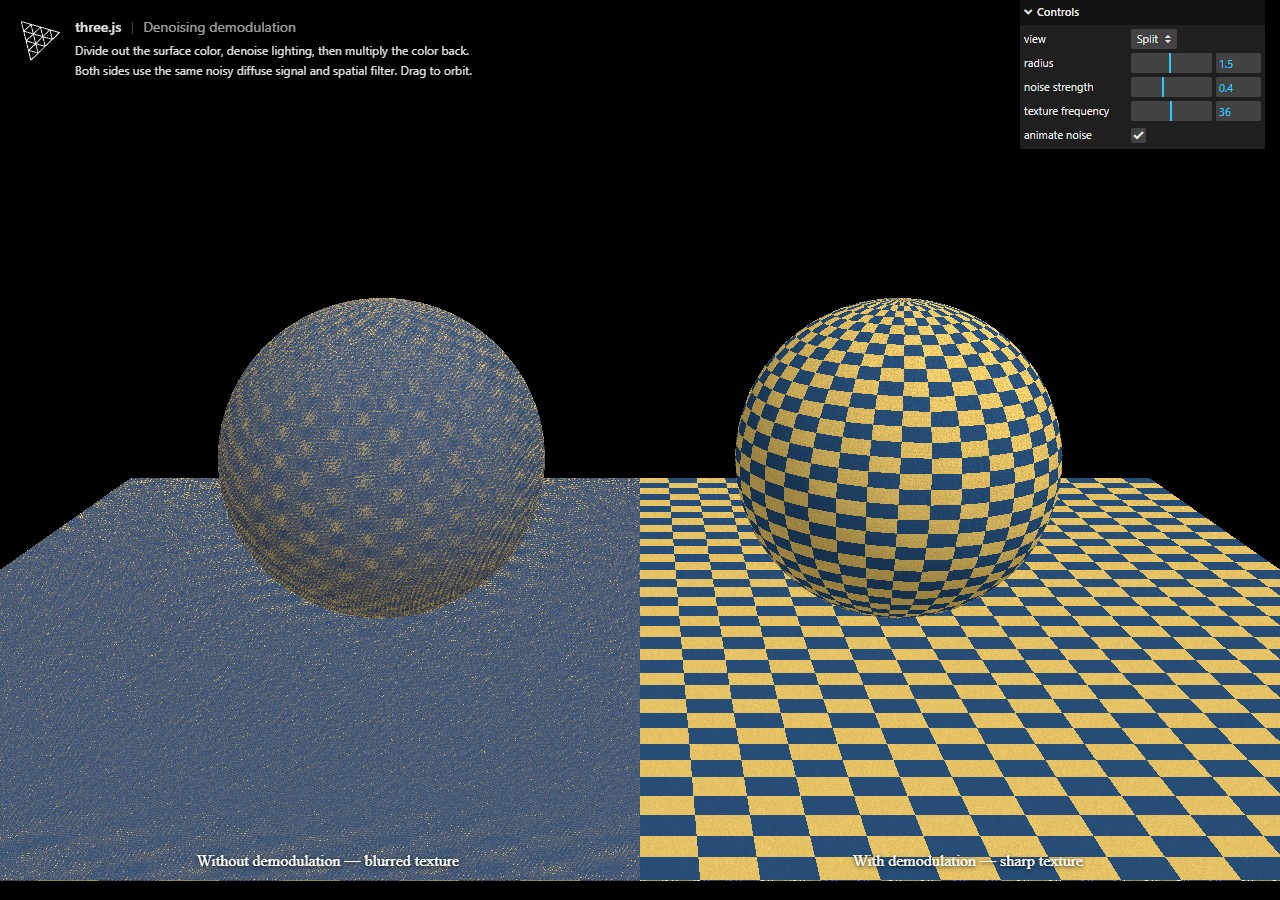
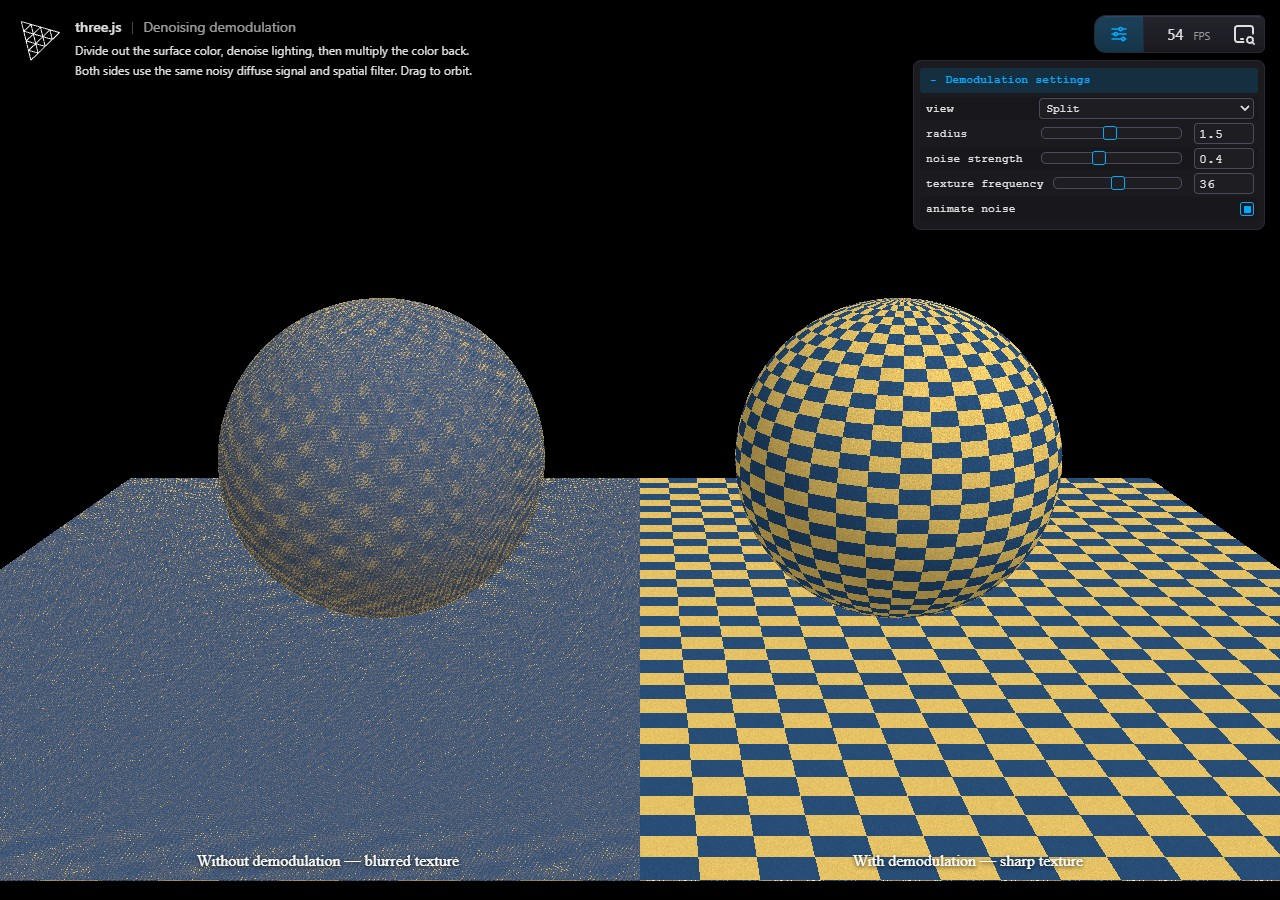
Use Inspector controls in the demodulation comparison

diff --git a/examples/webgpu_postprocessing_denoise_demodulation.html b/examples/webgpu_postprocessing_denoise_demodulation.html
@@ -31,9 +31,10 @@
 			import { diffuseColor, dot, float, fract, mix, mrt, normalView, normalWorld, output, packNormalToRGB, pass, screenCoordinate, screenUV, sin, step, uniform, uv, vec2, vec3, vec4 } from 'three/tsl';
 			import { demodulate, recurrentDenoise, remodulate } from 'three/addons/tsl/display/RecurrentDenoiseNode.js';
 			import { OrbitControls } from 'three/addons/controls/OrbitControls.js';
-			import { GUI } from 'three/addons/libs/lil-gui.module.min.js';
+			import { Inspector } from 'three/addons/inspector/Inspector.js';
 
 			const renderer = new THREE.WebGPURenderer( { antialias: true } );
+			renderer.inspector = new Inspector();
 			renderer.setPixelRatio( window.devicePixelRatio );
 			renderer.setSize( window.innerWidth, window.innerHeight );
 			document.body.appendChild( renderer.domElement );
@@ -107,7 +108,7 @@
 			const split = mix( without, withDemodulation, step( 0.5, screenUV.x ) );
 			pipeline.outputNode = split;
 			const params = { view: 'Split', radius: 1.5, animateNoise: true };
-			const gui = new GUI();
+			const gui = renderer.inspector.createParameters( 'Demodulation settings' );
 			gui.add( params, 'view', [ 'Split', 'Without demodulation', 'With demodulation', 'Noisy signal', 'Albedo', 'Filtered lighting' ] ).onChange( value => {
 
 				pipeline.outputNode = {
